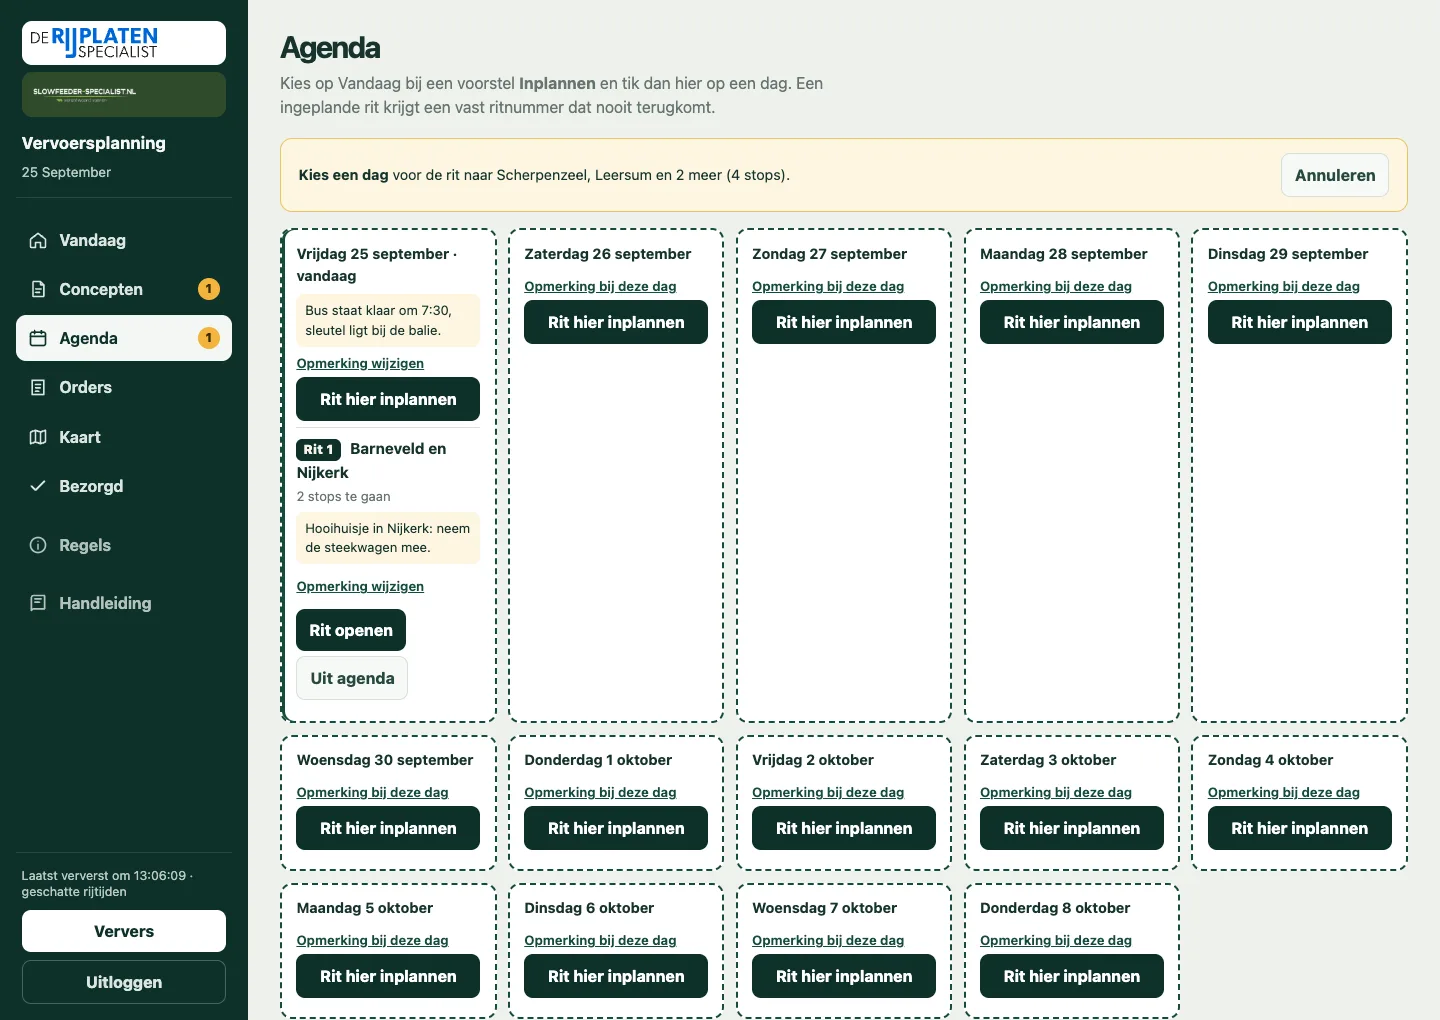
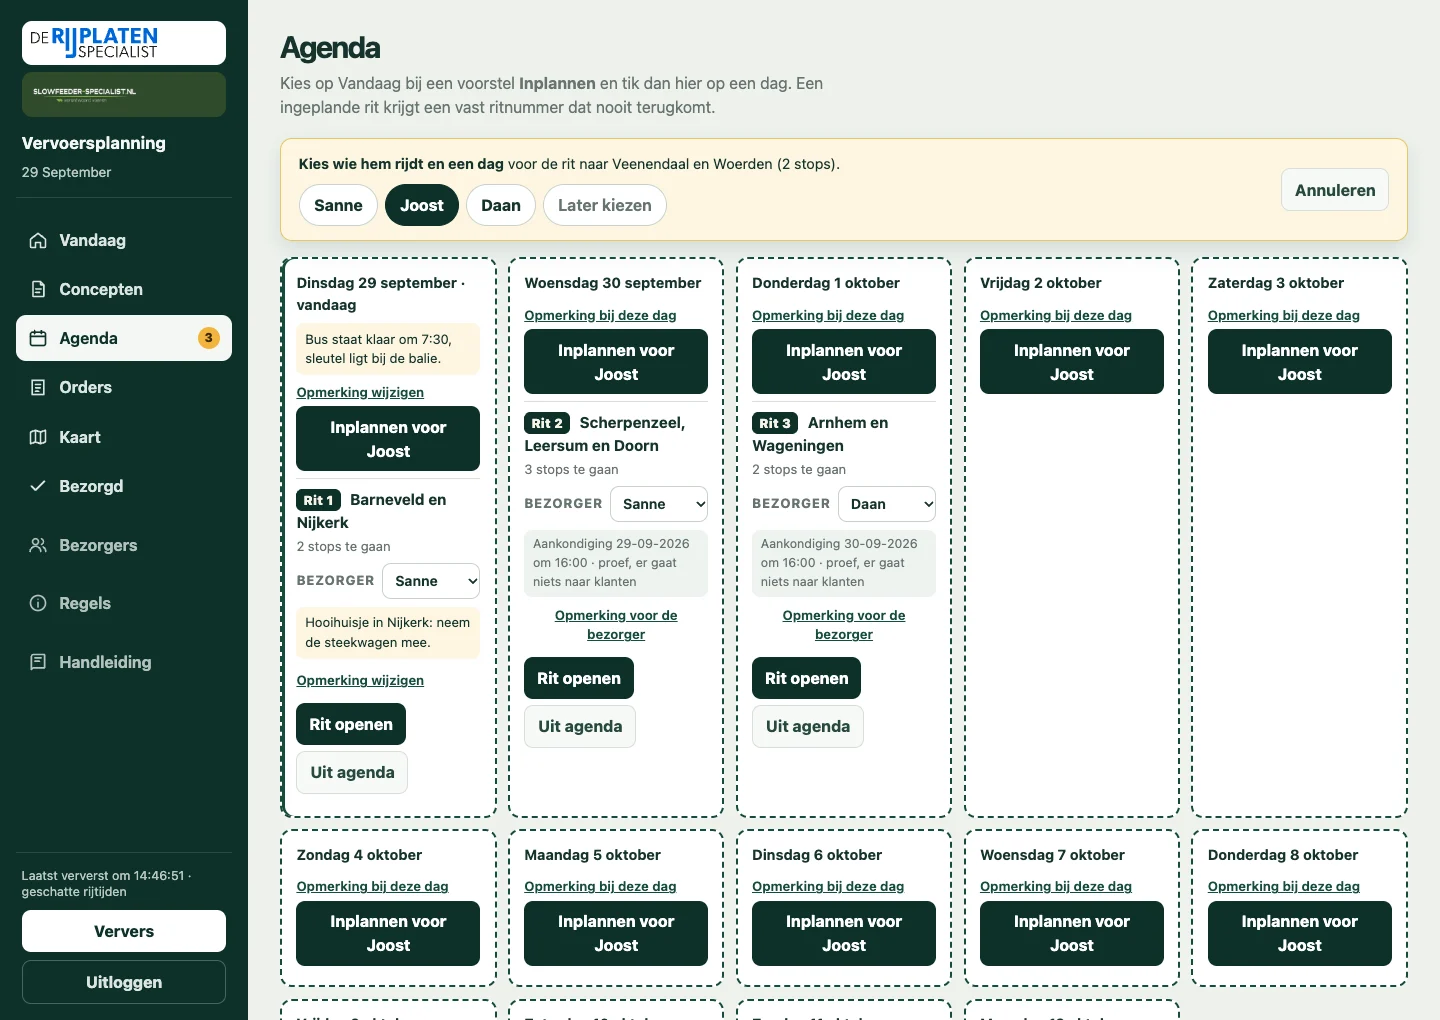
Show drivers in the handleiding's pictures
New pictures of the driver's list ("Welkom" with the name), Vandaag, planning
a route with a driver picked, a day in the agenda with its driver, and the new
Bezorgers page, with every marker moved to match. Customers and drivers in the
pictures are made up.

diff --git a/handleiding.html b/handleiding.html
@@ -22,7 +22,7 @@
     <main>
       <section class="intro">
         <h1>Handleiding vervoersplanning</h1>
-        <p>Stap voor stap: wat je ziet en wat elke knop doet. De cijfers op de foto's horen bij de uitleg ernaast. Alle klanten op de foto's zijn verzonnen.</p>
+        <p>Stap voor stap: wat je ziet en wat elke knop doet. De cijfers op de foto's horen bij de uitleg ernaast. Alle klanten en bezorgers op de foto's zijn verzonnen.</p>
         <div class="choose">
           <a class="choice" href="#bezorger"><b>Ik ben bezorger</b><span>Ritten bekijken, bezorgd melden, onderweg iets meenemen</span></a>
           <a class="choice" href="#planner"><b>Ik ben planner</b><span>Voorstellen, concepten, inplannen, agenda, orders</span></a>
@@ -46,10 +46,10 @@
     <div class="step-text">
       <h3><span class="nr">2</span>Jouw ritten</h3>
       <p>Na het openen zie je alleen de ritten die de planner aan jou heeft gegeven, niet die van de andere bezorgers: vandaag bovenaan, daaronder de komende week.</p>
-      <ol class="callouts"><li><span class="dot">1</span><div><b>De dag.</b> Staat er een rit van een eerdere dag die nog niet af is, dan staat die er in rood bij: <i>Nog open van …</i>. Meld daar alsnog wat je bezorgd hebt.</div></li><li><span class="dot">2</span><div><b>De rit.</b> Met het ritnummer, de plaatsen en hoeveel stops er nog te gaan zijn. Tik erop om de rit te openen.</div></li><li><span class="dot">3</span><div><b>Uitloggen en deze handleiding.</b> Uitloggen alleen als je de telefoon doorgeeft of kwijt bent geweest; je hebt daarna de code weer nodig.</div></li></ol>
+      <ol class="callouts"><li><span class="dot">1</span><div><b>Welkom en je naam.</b> Zo zie je dat je met je eigen code bent ingelogd.</div></li><li><span class="dot">2</span><div><b>De dag.</b> Met daaronder een opmerking van de planner voor die dag. Staat er een rit van een eerdere dag die nog niet af is, dan staat die er in rood bij: <i>Nog open van …</i>. Meld daar alsnog wat je bezorgd hebt.</div></li><li><span class="dot">3</span><div><b>De rit.</b> Met het ritnummer, de plaatsen en hoeveel stops er nog te gaan zijn. Tik erop om de rit te openen.</div></li><li><span class="dot">4</span><div><b>Uitloggen en deze handleiding.</b> Uitloggen alleen als je de telefoon doorgeeft of kwijt bent geweest; je hebt daarna de code weer nodig.</div></li></ol>
       
     </div>
-    <figure class="shot phone"><div class="frame"><img src="assets/handleiding/b-ritten.webp" width="390" height="844" alt="Lijst met ritten van de bezorger" loading="lazy" /><span class="mark" style="left:72.14%;top:19.32%">1</span><span class="mark" style="left:3.84%;top:33.89%">2</span><span class="mark" style="left:70.24%;top:72.82%">3</span></div></figure>
+    <figure class="shot phone"><div class="frame"><img src="assets/handleiding/b-ritten.webp" width="390" height="844" alt="Welkom met de naam van de bezorger, en de eigen ritten" loading="lazy" /><span class="mark" style="left:43.85%;top:12.98%">1</span><span class="mark" style="left:72.98%;top:24.67%">2</span><span class="mark" style="left:3.69%;top:42.86%">3</span><span class="mark" style="left:64.60%;top:78.39%">4</span></div></figure>
   </article>
 <article class="step phone" id="b-rit">
     <div class="step-text">
@@ -114,10 +114,10 @@
     <div class="step-text">
       <h3><span class="nr">2</span>Vandaag: het overzicht</h3>
       <p>De planning maakt zelf voorstellen voor ritten uit de open orders. Elk voorstel is hooguit een werkdag (5:45 met lossen); is er in één richting meer werk, dan komen er meer voorstellen. Voorstellen heten A, B, C; pas als je er één inplant, krijgt hij een vast ritnummer.</p>
-      <ol class="callouts"><li><span class="dot">1</span><div><b>De tellers.</b> <i>Meenemen</i>: orders voor de bus die nog niet ingepland zijn. <i>Controleren</i>: hier beslis jij. <i>Vandaag of te laat</i>: de deadline is vandaag of voorbij. Tik op een teller voor de lijst.</div></li><li><span class="dot">2</span><div><b>Een voorstel.</b> Bovenaan kies je welk voorstel je ziet (A, B, C…); daaronder staat dat voorstel met de stops in rijvolgorde, de rijtijd en de totale tijd. Bij elke stop staat tot wanneer hij uiterlijk bezorgd moet worden: oranje is vandaag of morgen, rood is te laat. Wat het eerst moet, is voorstel A. De kaart ernaast volgt je keuze.</div></li><li><span class="dot">3</span><div><b>Inplannen.</b> Zet dit voorstel op een dag in de agenda (zie stap 4).</div></li><li><span class="dot">4</span><div><b>De kaart.</b> De route van het gekozen voorstel. <i>Alle orders</i> toont alle open orders, <i>Naast elkaar</i> alle voorstellen.</div></li><li><span class="dot">5</span><div><b>Het menu.</b> Vandaag, Concepten, Agenda, Orders, Kaart, Bezorgd, Bezorgers, de regels en deze handleiding.</div></li></ol>
+      <ol class="callouts"><li><span class="dot">1</span><div><b>De tellers.</b> <i>Meenemen</i>: orders voor de bus die nog niet ingepland zijn. <i>Controleren</i>: hier beslis jij. <i>Vandaag of te laat</i>: de deadline is vandaag of voorbij. Tik op een teller voor de lijst.</div></li><li><span class="dot">2</span><div><b>Een voorstel.</b> Bovenaan kies je welk voorstel je ziet (A, B, C…); daaronder staat dat voorstel met de stops in rijvolgorde, de rijtijd en de totale tijd. Bij elke stop staat tot wanneer hij uiterlijk bezorgd moet worden: oranje is vandaag of morgen, rood is te laat. Wat het eerst moet, is voorstel A. De kaart ernaast volgt je keuze.</div></li><li><span class="dot">3</span><div><b>Inplannen.</b> Zet dit voorstel op een dag in de agenda (zie stap 4).</div></li><li><span class="dot">4</span><div><b>De kaart.</b> Met <i>Rit</i> de route van het gekozen voorstel, met <i>Alle orders</i> (zoals hier) alle open orders, met <i>Naast elkaar</i> alle voorstellen.</div></li><li><span class="dot">5</span><div><b>Het menu.</b> Vandaag, Concepten, Agenda, Orders, Kaart, Bezorgd, Bezorgers, de regels en deze handleiding.</div></li></ol>
       
     </div>
-    <figure class="shot laptop"><div class="frame"><img src="assets/handleiding/p-vandaag.webp" width="1440" height="1020" alt="Het scherm Vandaag met voorstellen en kaart" loading="lazy" /><span class="mark" style="left:20.97%;top:9.19%">1</span><span class="mark" style="left:21.99%;top:34.58%">2</span><span class="mark" style="left:58.43%;top:90.15%">3</span><span class="mark" style="left:62.63%;top:24.78%">4</span><span class="mark" style="left:2.64%;top:22.83%">5</span></div></figure>
+    <figure class="shot laptop"><div class="frame"><img src="assets/handleiding/p-vandaag.webp" width="1440" height="1020" alt="Het scherm Vandaag met voorstellen en kaart" loading="lazy" /><span class="mark" style="left:19.40%;top:13.00%">1</span><span class="mark" style="left:19.90%;top:36.63%">2</span><span class="mark" style="left:57.79%;top:84.30%">3</span><span class="mark" style="left:63.25%;top:65.66%">4</span><span class="mark" style="left:1.67%;top:44.22%">5</span></div></figure>
   </article>
 <article class="step card" id="p-voorstel">
     <div class="step-text">
@@ -135,7 +135,7 @@
       <ol class="callouts"><li><span class="dot">1</span><div><b>Kies wie hem rijdt.</b> Bovenaan staat welke rit je aan het inplannen bent, met de namen van de bezorgers. Tik op wie de rit rijdt, of op <i>Later kiezen</i>. Pas dan kun je een dag kiezen. <i>Annuleren</i> zet de rit terug.</div></li><li><span class="dot">2</span><div><b>Inplannen voor …</b> Tik op de dag. De knop noemt de bezorger, zodat je nog één keer ziet wie hem krijgt. De rit krijgt een vast nummer (Rit 1, Rit 2, …) dat nooit meer terugkomt. Pakketten in de rit krijgen in Shopify de tag <i>eigen bezorging</i>.</div></li><li><span class="dot">•</span><div><b>Te laat?</b> Kies je een dag na de uiterste leverdatum van een stop, dan vraagt de planning eerst of dat de bedoeling is.</div></li></ol>
       <p class="tip">Een order die al in een ingeplande rit staat, stelt de planning niet nog eens voor. Nieuwe orders komen erbij via <a href="#p-rit-open">Rit openen</a>. Zijn er nog geen bezorgers (zie <a href="#p-bezorgers">Bezorgers</a>), dan kies je alleen een dag.</p>
     </div>
-    <figure class="shot laptop"><div class="frame"><img src="assets/handleiding/p-inplannen.webp" width="1440" height="1020" alt="De agenda met de keuze voor een dag" loading="lazy" /><span class="mark" style="left:20.97%;top:15.10%">1</span><span class="mark" style="left:49.06%;top:31.57%">2</span></div></figure>
+    <figure class="shot laptop"><div class="frame"><img src="assets/handleiding/p-inplannen.webp" width="1440" height="1020" alt="De agenda met de keuze voor een bezorger en een dag" loading="lazy" /><span class="mark" style="left:19.50%;top:20.08%">1</span><span class="mark" style="left:49.17%;top:35.45%">2</span></div></figure>
   </article>
 <article class="step laptop" id="p-concepten">
     <div class="step-text">
@@ -159,10 +159,10 @@
     <div class="step-text">
       <h3><span class="nr">7</span>De agenda</h3>
       
-      <ol class="callouts"><li><span class="dot">1</span><div><b>Ritnummer en plaatsen.</b> Met hoeveel stops er nog te gaan zijn.</div></li><li><span class="dot">•</span><div><b>Bezorger.</b> Wie de rit rijdt. Kies je hier iemand anders, dan ziet de vorige bezorger de rit niet meer en de nieuwe wel, bij de volgende keer verversen. Staat er <i>Nog niemand</i> (met een gele waarschuwing), kies dan wie hem rijdt: tot dan krijgt geen bezorger hem te zien.</div></li><li><span class="dot">2</span><div><b>Aankondiging.</b> Om 16:00 de dag vóór de rit worden de klanten ingelicht. Zolang er <i>proef</i> staat, gaat er niets naar klanten en schrijft het systeem alleen op wat het zou doen. Komt er na 16:00 nog een stop bij, dan staat eronder <i>na de aankondiging toegevoegd, niet aangekondigd</i>: die klant weet van niets, bel hem zelf.</div></li><li><span class="dot">3</span><div><b>Opmerking voor de bezorger.</b> Die ziet de bezorger bovenaan de rit.</div></li><li><span class="dot">4</span><div><b>Rit openen.</b> Bekijk de rit en kijk wat er nog bij kan (stap 8).</div></li><li><span class="dot">5</span><div><b>Uit agenda.</b> De rit verdwijnt en de orders komen terug in de planning.</div></li><li><span class="dot">6</span><div><b>Opmerking bij deze dag.</b> Voor de hele dag, bijvoorbeeld <i>bus in onderhoud</i>.</div></li></ol>
+      <ol class="callouts"><li><span class="dot">1</span><div><b>Ritnummer en plaatsen.</b> Met hoeveel stops er nog te gaan zijn.</div></li><li><span class="dot">2</span><div><b>Bezorger.</b> Wie de rit rijdt. Kies je hier iemand anders, dan ziet de vorige bezorger de rit niet meer en de nieuwe wel, bij de volgende keer verversen. Staat er <i>Nog niemand</i> (met een gele waarschuwing), kies dan wie hem rijdt: tot dan krijgt geen bezorger hem te zien.</div></li><li><span class="dot">3</span><div><b>Aankondiging.</b> Om 16:00 de dag vóór de rit worden de klanten ingelicht. Zolang er <i>proef</i> staat, gaat er niets naar klanten en schrijft het systeem alleen op wat het zou doen. Komt er na 16:00 nog een stop bij, dan staat eronder <i>na de aankondiging toegevoegd, niet aangekondigd</i>: die klant weet van niets, bel hem zelf.</div></li><li><span class="dot">4</span><div><b>Opmerking voor de bezorger.</b> Die ziet de bezorger bovenaan de rit.</div></li><li><span class="dot">5</span><div><b>Rit openen.</b> Bekijk de rit en kijk wat er nog bij kan (stap 8).</div></li><li><span class="dot">6</span><div><b>Uit agenda.</b> De rit verdwijnt en de orders komen terug in de planning.</div></li><li><span class="dot">7</span><div><b>Opmerking bij deze dag.</b> Voor de hele dag, bijvoorbeeld <i>bus in onderhoud</i>.</div></li></ol>
       <p class="tip">Een rit van een eerdere dag die niet (helemaal) gereden is, blijft bovenaan in de agenda staan tot hij is afgehandeld. Breekt de bezorger een rit af, dan zie je hier wat er terugkwam en waarom.</p>
     </div>
-    <figure class="shot card"><div class="frame"><img src="assets/handleiding/p-agenda.webp" width="241" height="467" alt="Een dag in de agenda met een ingeplande rit" loading="lazy" /><span class="mark" style="left:36.63%;top:22.48%">1</span><span class="mark" style="left:89.15%;top:41.57%">2</span><span class="mark" style="left:2.50%;top:54.98%">3</span><span class="mark" style="left:60.62%;top:64.35%">4</span><span class="mark" style="left:61.33%;top:74.68%">5</span><span class="mark" style="left:83.77%;top:14.65%">6</span></div></figure>
+    <figure class="shot card"><div class="frame"><img src="assets/handleiding/p-agenda.webp" width="465" height="1005" alt="Een dag in de agenda met een ingeplande rit en de bezorger" loading="lazy" /><span class="mark" style="left:8.34%;top:20.09%">1</span><span class="mark" style="left:77.05%;top:36.10%">2</span><span class="mark" style="left:85.65%;top:47.96%">3</span><span class="mark" style="left:95.00%;top:58.99%">4</span><span class="mark" style="left:57.04%;top:67.70%">5</span><span class="mark" style="left:58.22%;top:77.29%">6</span><span class="mark" style="left:79.79%;top:12.81%">7</span></div></figure>
   </article>
 <article class="step laptop" id="p-rit-open">
     <div class="step-text">
@@ -211,13 +211,14 @@
     </div>
     <figure class="shot laptop"><div class="frame"><img src="assets/handleiding/p-regels.webp" width="1440" height="1020" alt="De pagina met de regels van de planning" loading="lazy" /><span class="mark" style="left:20.97%;top:15.10%">1</span></div></figure>
   </article>
-<article class="step text" id="p-bezorgers">
+<article class="step laptop" id="p-bezorgers">
     <div class="step-text">
       <h3><span class="nr">13</span>Bezorgers en hun codes</h3>
       <p>Onder <i>Bezorgers</i> in het menu (op de telefoon onderin: <i>Team</i>) staat wie er rijdt. Elke bezorger logt in met een eigen code en ziet alleen de ritten die jij aan die bezorger geeft.</p>
-      <ol class="callouts"><li><span class="dot">1</span><div><b>Toevoegen.</b> Typ de voornaam en tik op <i>Toevoegen</i>. De planning maakt meteen een code van twaalf tekens, bijvoorbeeld <i>k7pm-3qxd-wr9h</i>. Geef die door, bijvoorbeeld via WhatsApp. Je ziet de code maar één keer: nergens wordt hij bewaard.</div></li><li><span class="dot">2</span><div><b>Nieuwe code.</b> Als een telefoon kwijt is, of de code bij de verkeerde terechtkwam. De oude code werkt meteen niet meer; de ritten blijven van dezelfde bezorger. Op de telefoon moet de nieuwe code worden ingevuld.</div></li><li><span class="dot">3</span><div><b>Verwijderen.</b> De code werkt meteen niet meer. Ritten van die bezorger in de agenda staan dan op <i>Nog niemand</i>: geef ze aan een ander.</div></li></ol>
+      <ol class="callouts"><li><span class="dot">1</span><div><b>Toevoegen.</b> Typ de voornaam en tik op <i>Toevoegen</i>.</div></li><li><span class="dot">2</span><div><b>De code.</b> De planning maakt meteen een code van twaalf tekens, zoals <i>k7pm-3qxd-wr9h</i>. Geef die door, bijvoorbeeld via WhatsApp. Je ziet de code maar één keer: nergens wordt hij bewaard.</div></li><li><span class="dot">3</span><div><b>Nieuwe code.</b> Als een telefoon kwijt is, of de code bij de verkeerde terechtkwam. De oude code werkt meteen niet meer; de ritten blijven van dezelfde bezorger. Op de telefoon moet de nieuwe code worden ingevuld.</div></li><li><span class="dot">4</span><div><b>Verwijderen.</b> De code werkt meteen niet meer. Ritten van die bezorger in de agenda staan dan op <i>Nog niemand</i>: geef ze aan een ander.</div></li></ol>
       <p class="tip">Bij elke bezorger staat hoeveel ritten er in de agenda staan. Onder <i>Bezorgd</i> zie je welke bezorger een stop als bezorgd meldde.</p>
     </div>
+    <figure class="shot laptop"><div class="frame"><img src="assets/handleiding/p-bezorgers.webp" width="1440" height="1020" alt="De pagina Bezorgers met een nieuwe code en de lijst met bezorgers" loading="lazy" /><span class="mark" style="left:71.04%;top:75.81%">1</span><span class="mark" style="left:43.68%;top:22.70%">2</span><span class="mark" style="left:52.50%;top:64.32%">3</span><span class="mark" style="left:70.93%;top:64.32%">4</span></div></figure>
   </article>
       </section>
 
